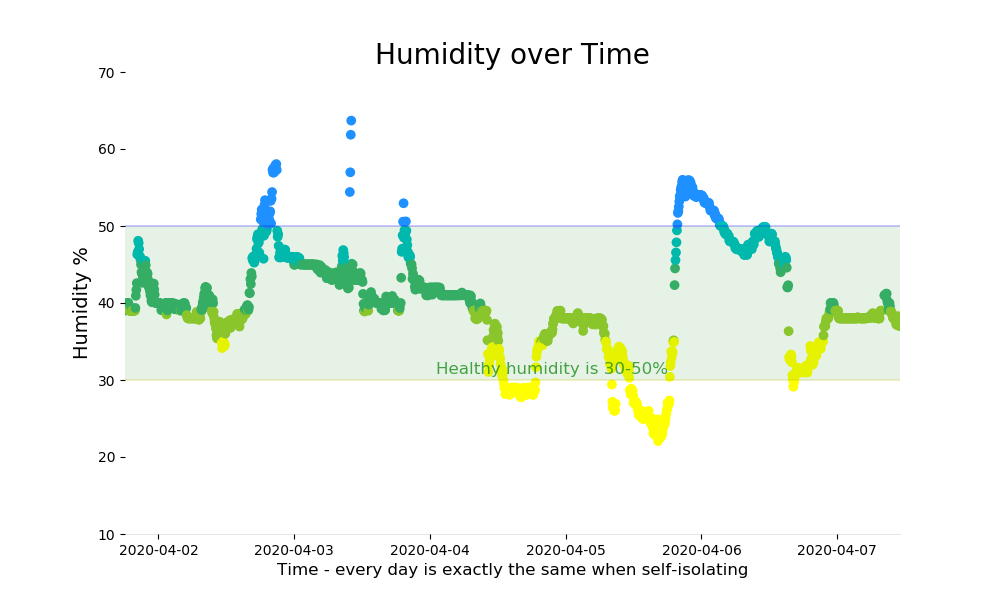
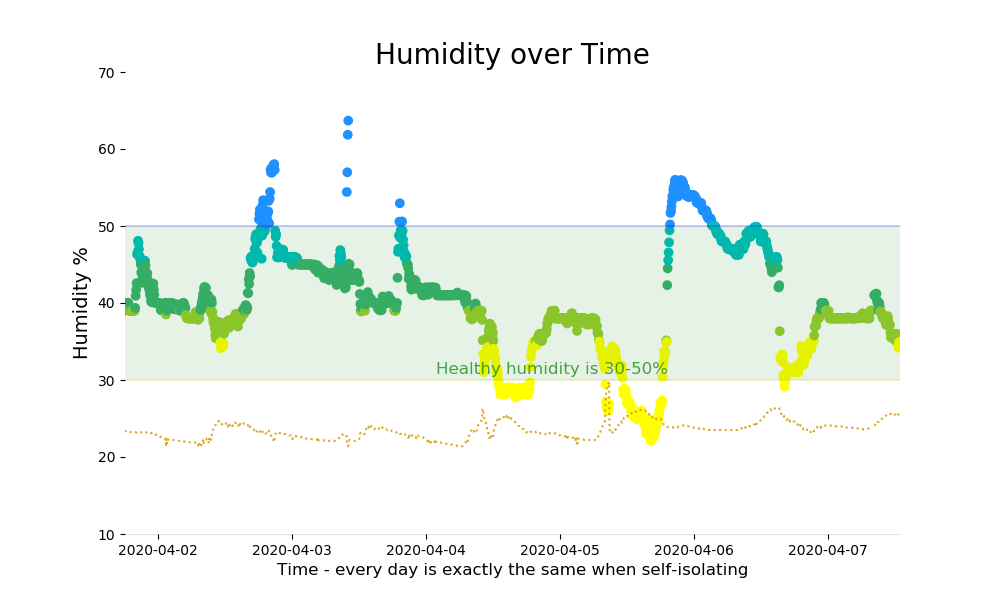
Display temperature

diff --git a/humidity/webapp/Humidity.py b/humidity/webapp/Humidity.py
@@ -38,8 +38,8 @@ def generate_image():
                        (np.where(df['humidity'] > 35, 'yellowgreen', 'yellow')))))))
 
   fig, ax = plt.subplots(1, figsize=(10,6))
-  #plt.switch_backend('Agg')
   ax.scatter(df['datetime'], df['humidity'], c=colors)
+  ax.plot(df['datetime'], df['temperature'], linestyle='dotted', color='goldenrod')
   ax.plot(df['datetime'], df['healthy_min'], linestyle='solid', color="y", linewidth=0.6, label="min healthy humidity", alpha=0.5)
   ax.plot(df['datetime'], df['healthy_max'], linestyle='solid', color="b", linewidth=0.6, label="max healthy humidity", alpha=0.5)
 
